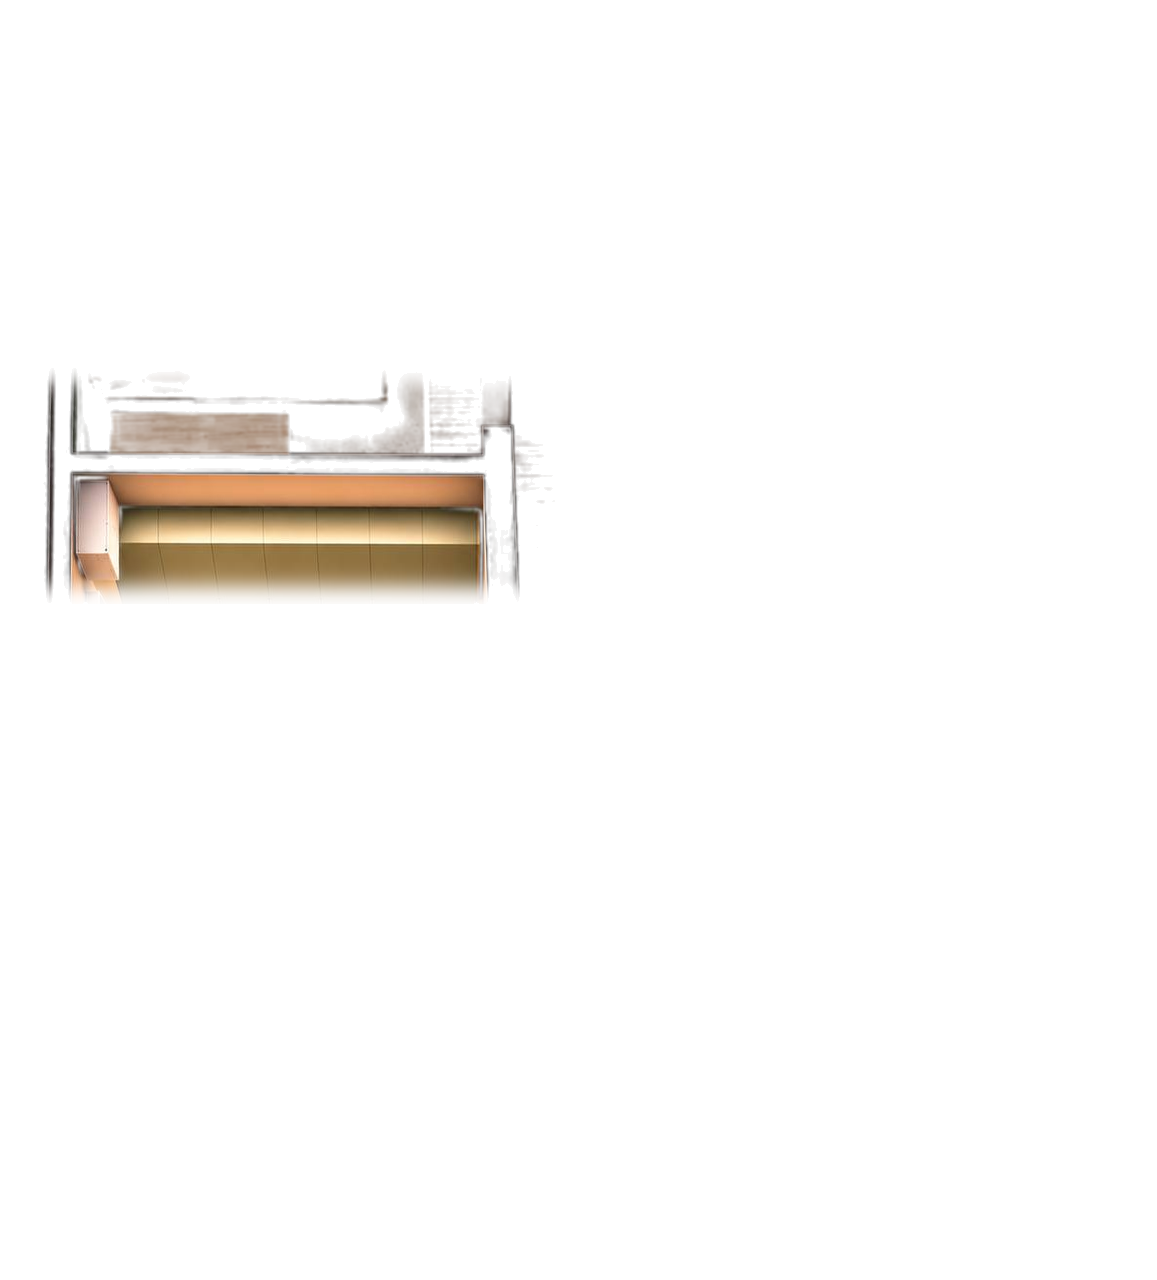
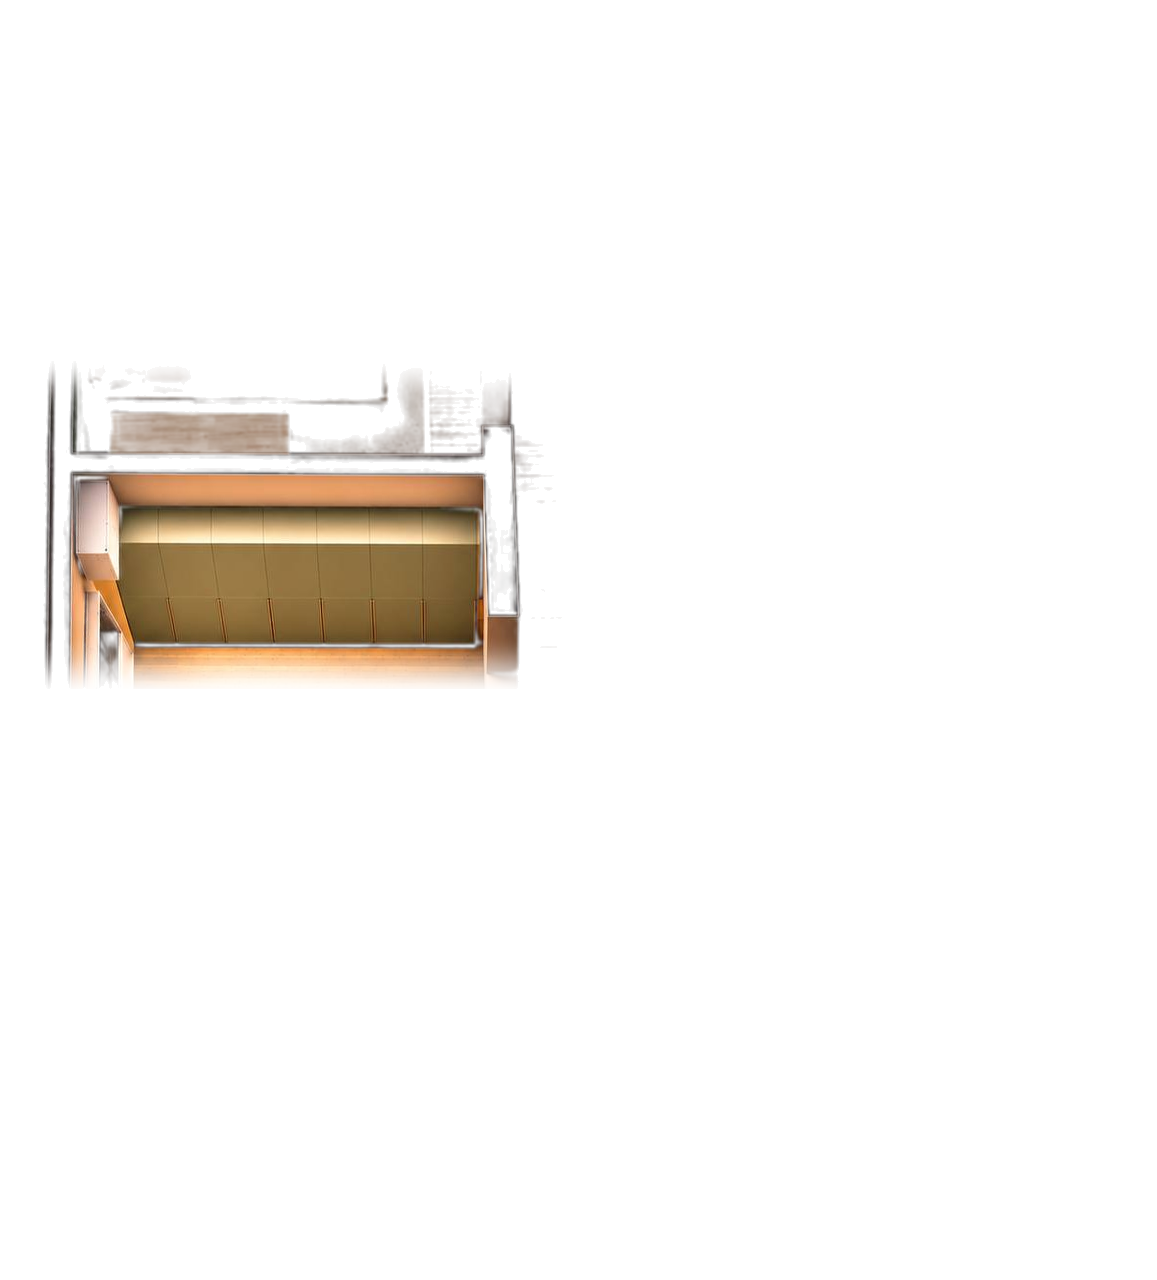
Refine floor lighting and map controls

Changed region(s): [[0.0311, 0.4375, 0.4667, 0.5312]]

diff --git a/styles.css b/styles.css
@@ -3,7 +3,6 @@
 #floor-2 .outer-wall,#floor-2 .rooms,#floor-2 .room-glow,#floor-2 .floor-furniture,#floor-2 .room-labels,#floor-2 .map-device{visibility:hidden}#floor-2 .original-plan-images,#floor-2 .photo-room-overlay{visibility:visible}#floor-2 .plan-photo{opacity:0;transition:opacity .52s ease}#floor-2 .plan-photo.is-visible{opacity:1}#floor-2 .photo-room{fill:transparent!important;stroke:transparent!important;filter:none!important;cursor:pointer;pointer-events:all}#floor-2 .photo-room:hover{fill:rgba(255,255,255,.06)!important}#floor-2 .photo-room.selected{fill:rgba(255,196,100,.08)!important;animation:photo-room-select .42s ease-out}@keyframes photo-room-select{0%{fill:transparent}60%{fill:rgba(255,207,125,.2)}100%{fill:rgba(255,196,100,.08)}}
 #floor-2{width:min(100%,1120px);height:auto;max-height:none;margin:0 auto;touch-action:manipulation;user-select:none}#floor-2 .base-plan,#floor-2 .base-correction{opacity:1}#floor-2 .lighting-layer{opacity:0;transition:opacity .5s cubic-bezier(.22,.8,.24,1);will-change:opacity}#floor-2 .lighting-layer.is-on{opacity:1}#floor-2 .photo-room,#floor-2 .photo-room:hover,#floor-2 .photo-room.selected,#floor-2 .photo-room.room-active{fill:transparent!important;stroke:transparent!important;filter:none!important;animation:none!important;pointer-events:all;cursor:pointer}#floor-2 .light-zone{fill:transparent;stroke:transparent;stroke-width:4;pointer-events:all;cursor:pointer;transition:stroke .18s,fill .18s}#floor-2 .light-zone:hover{fill:rgba(255,205,115,.035);stroke:rgba(255,221,157,.42)}#floor-2 .light-zone:focus{outline:none;fill:rgba(255,205,115,.045);stroke:#91c7ff}#floor-2 .equipment-marker{cursor:pointer;pointer-events:all}#floor-2 .equipment-marker circle{fill:#121824e8;stroke:#dfe7f5;stroke-width:3;filter:drop-shadow(0 4px 7px #000b)}#floor-2 .equipment-marker text{fill:#fff;text-anchor:middle;font-size:19px;font-weight:800;pointer-events:none}#floor-2 .equipment-marker:hover circle,#floor-2 .equipment-marker:focus circle{stroke:#87c9ff;stroke-width:5}#floor-2 .sensor-marker circle{stroke:#70bcff}#floor-2 .vacuum-marker circle{stroke:#64d7ad}#floor-2 .vacuum-marker.is-cleaning{animation:equipment-pulse 1.8s ease-in-out infinite}@keyframes equipment-pulse{50%{filter:drop-shadow(0 0 12px #61d6ad);transform:scale(1.06)}}.plan-section .map-layout{display:block}.plan-section .floorplan-card{width:100%;padding:20px clamp(12px,2vw,26px)}.plan-section .room-panel{width:100%;min-height:0;margin-top:16px;padding:18px 20px}.plan-section .room-panel .room-devices{display:grid;grid-template-columns:repeat(auto-fit,minmax(230px,1fr));gap:10px}.plan-section .room-tip{margin-top:14px}.legend-light{border-radius:2px!important;width:12px!important;height:8px!important;background:linear-gradient(90deg,#8a5a24,#ffd997)!important}@media(max-width:760px){#floor-2{width:100%}.plan-section .floorplan-card{padding:10px}.plan-section .room-panel{padding:16px}.plan-section .room-panel .room-devices{grid-template-columns:1fr}}
 #floor-2 .equipment-marker.is-on circle{fill:#173c35;stroke:#64d7ad;filter:drop-shadow(0 0 10px #64d7ad88)}
-#floor-2 .photo-room:focus{outline:none;stroke:#91c7ff!important;stroke-width:5}
 :root { --bg:#090d19; --surface:#121827; --surface-2:#181f31; --line:#29324b; --text:#f4f6fb; --muted:#8b96ac; --violet:#8b5cf6; --violet-soft:#a78bfa; --blue:#50a4ff; --green:#3ddc97; --warm:#f7c66a; --danger:#fb7185; }
 * { box-sizing:border-box; }
 html { scroll-behavior:smooth; }
@@ -31,3 +30,13 @@ button { cursor:pointer; }
 @media (max-width:760px){.app-shell{display:block}.sidebar{position:fixed;z-index:5;bottom:0;top:auto;left:0;width:100%;height:68px;padding:8px 10px;background:#0b1020ee;border-right:0;border-top:1px solid var(--line);display:flex;flex-direction:row;align-items:center}.brand,.sidebar-bottom{display:none}.nav-list{width:100%;display:flex;justify-content:space-around;gap:3px}.nav-item,.nav-item.active{font-size:.64rem;display:flex;flex-direction:column;gap:2px;padding:4px 9px;box-shadow:none}.nav-item span{font-size:1.05rem}.main-content{padding:28px 16px 94px}.topbar{align-items:flex-start;margin-bottom:20px}.topbar h1{font-size:2rem}.connection-badge{font-size:0;padding:11px}.signal-dot{margin:0}.home-status{display:grid;grid-template-columns:1fr 1fr;margin-bottom:31px}.status-card{padding:12px;min-height:68px}.weather-card{grid-column:span 2}.scenes-grid{grid-template-columns:1fr 1fr;gap:9px}.scene-card{padding:12px;align-items:flex-start}.scene-icon{width:31px;height:31px;font-size:1rem}.scene-card small{display:none}.section-block{margin-top:33px}.section-heading{align-items:flex-end}.section-note{display:none}.map-layout{display:block}.floorplan-card{padding:12px;border-radius:17px}.room-panel{width:auto;margin-top:12px;min-height:250px;border-radius:17px}.room-labels text{font-size:15px}.room-labels .room-sub,.room-labels .small-room{font-size:11px}.device-summary-grid{display:grid;grid-template-columns:1fr;gap:9px}.summary-device{min-height:106px}.summary-device:before{display:none}.floor-tab{padding:7px 10px}.topbar-actions{gap:7px}}
 
 .second-floor-map .floor-room{fill:url(#wood-floor);stroke:#9daabf;stroke-width:5}.second-floor-map .floor-room[data-room="f2-bath"]{fill:url(#tile-floor)}.second-floor-map .floor-room:hover,.second-floor-map .floor-room.selected{fill:#69628e;stroke:#d7cbff}.second-floor-map .floor-room.room-active{fill:#746d73;stroke:#f1d997}.second-floor-map .floor-furniture{opacity:.96}.second-floor-map .bed{fill:#c9b9af;stroke:#efe3da;stroke-width:2}.second-floor-map .pillow{fill:#f2eee8}.second-floor-map .green-wardrobe{fill:#315747;stroke:#87aa91;stroke-width:2}.second-floor-map .storage-room{fill:#343b49;stroke:#abb4c3;stroke-width:2}.second-floor-map .bath{fill:#eef3f4;stroke:#bfcad3;stroke-width:3}.second-floor-map .sink{fill:#e4eaf0;stroke:#b7c3ce;stroke-width:2}.second-floor-map .shower{fill:#303945;stroke:#afbdca;stroke-width:2}.second-floor-map .desk,.second-floor-map .shelves{fill:#695644;stroke:#b59d85;stroke-width:2}.second-floor-map .rug{fill:#8a7d72;opacity:.8}.second-floor-map .stair-steps{stroke:#d2d7df;stroke-width:4}.second-floor-map .room-labels text{paint-order:stroke;stroke:#252c3d;stroke-width:5px;stroke-linejoin:round}.second-floor-map .room-labels .room-sub{stroke-width:4px}.room-glow{pointer-events:none;opacity:0;fill:#ffd873;filter:drop-shadow(0 0 20px #ffd873)}.room-glow.is-on{opacity:.18}.second-floor-map [data-map-toggle],.second-floor-map [data-map-vacuum]{pointer-events:all;cursor:pointer}.second-floor-map [data-map-toggle]{opacity:.32;filter:none;transition:opacity .2s,filter .2s}.second-floor-map [data-map-toggle].is-on{opacity:1;filter:drop-shadow(0 0 7px #ffd46c)}.second-floor-map .mini-light{stroke-width:2}.second-floor-map [data-map-toggle]:hover,.second-floor-map [data-map-vacuum]:hover{filter:drop-shadow(0 0 9px #fff0a5)}.second-floor-map [data-map-toggle]:focus,.second-floor-map [data-map-vacuum]:focus{outline:none}.second-floor-map .device-vacuum{transform-box:fill-box;transform-origin:center}.second-floor-map .device-vacuum.is-cleaning{animation:vacuum-cleaning 7s ease-in-out infinite;filter:drop-shadow(0 0 9px #66e5b7)}@keyframes vacuum-cleaning{0%,100%{transform:translate(0,0)}25%{transform:translate(45px,0)}55%{transform:translate(45px,35px)}75%{transform:translate(-20px,35px)}}
+
+@media (min-width:761px){#floor-2{width:min(94%,1040px)}}
+#floor-2 .photo-room:focus,#floor-2 .light-zone:hover,#floor-2 .light-zone:focus{outline:none;fill:transparent!important;stroke:transparent!important;filter:none!important}
+#floor-2 .lighting-layer[data-light-layer="f2-bed-lamp-1"],#floor-2 .lighting-layer[data-light-layer="f2-bed-lamp-2"]{filter:brightness(1.45) saturate(1.08)}
+#floor-2 .lighting-layer[data-light-layer="f2-laundry-light"]{filter:saturate(.18) hue-rotate(155deg) brightness(1.22) contrast(1.02)}
+#floor-2 .lighting-layer[data-light-layer="f2-office-light"]{filter:saturate(.82) hue-rotate(8deg) brightness(1.06)}
+#floor-2 .equipment-marker:focus{outline:none}
+#floor-2 .equipment-marker:focus circle{stroke-width:3}
+#floor-2 .sensor-marker:focus circle{stroke:#70bcff}
+#floor-2 .vacuum-marker:focus circle{stroke:#64d7ad}

diff --git a/index.html b/index.html
@@ -199,7 +199,7 @@
                 </g>
                 <g class="equipment-markers">
                   <g class="equipment-marker" data-map-toggle="f2-aircon" data-device-state="f2-aircon" tabindex="0" role="button" aria-label="Кондиционер спальни"><circle cx="72" cy="505" r="22"/><text x="72" y="512">❄</text><title>Кондиционер</title></g>
-                  <g id="vacuum-2-marker" class="equipment-marker vacuum-marker" data-map-vacuum="vacuum-2" tabindex="0" role="button" aria-label="Робот-пылесос второго этажа"><circle cx="825" cy="935" r="24"/><text x="825" y="943">✦</text><title>Робот-пылесос</title></g>
+                  <g id="vacuum-2-marker" class="equipment-marker vacuum-marker" data-map-vacuum="vacuum-2" tabindex="0" role="button" aria-label="Робот-пылесос второго этажа"><circle cx="640" cy="865" r="24"/><text x="640" y="873">✦</text><title>Робот-пылесос</title></g>
                   <g class="equipment-marker sensor-marker" tabindex="0" aria-label="Датчик протечки: сухо"><circle cx="1030" cy="625" r="20"/><text x="1030" y="632">◈</text><title>Датчик протечки: сухо</title></g>
                   <g class="equipment-marker sensor-marker" tabindex="0" aria-label="Датчик температуры: 22.8 градуса"><circle cx="1030" cy="890" r="20"/><text x="1030" y="897">⌁</text><title>Температура: 22.8°</title></g>
                 </g>

diff --git a/service-worker.js b/service-worker.js
@@ -1,4 +1,4 @@
-const CACHE = "my-home-dashboard-v7";
+const CACHE = "my-home-dashboard-v8";
 const ASSETS = ["./", "./index.html", "./styles.css", "./app.js", "./manifest.webmanifest"];
 self.addEventListener("install", event => event.waitUntil(caches.open(CACHE).then(cache => cache.addAll(ASSETS)).then(() => self.skipWaiting())));
 self.addEventListener("activate", event => event.waitUntil(caches.keys().then(keys => Promise.all(keys.filter(key => key !== CACHE).map(key => caches.delete(key)))).then(() => self.clients.claim())));
